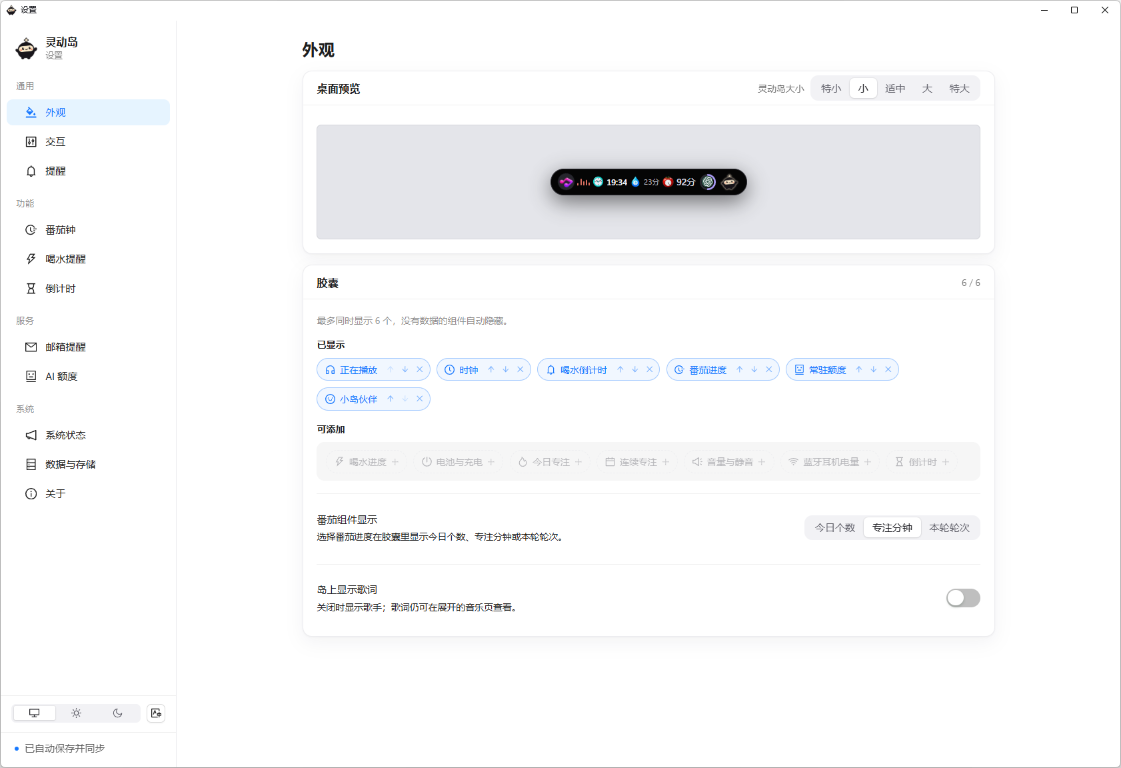
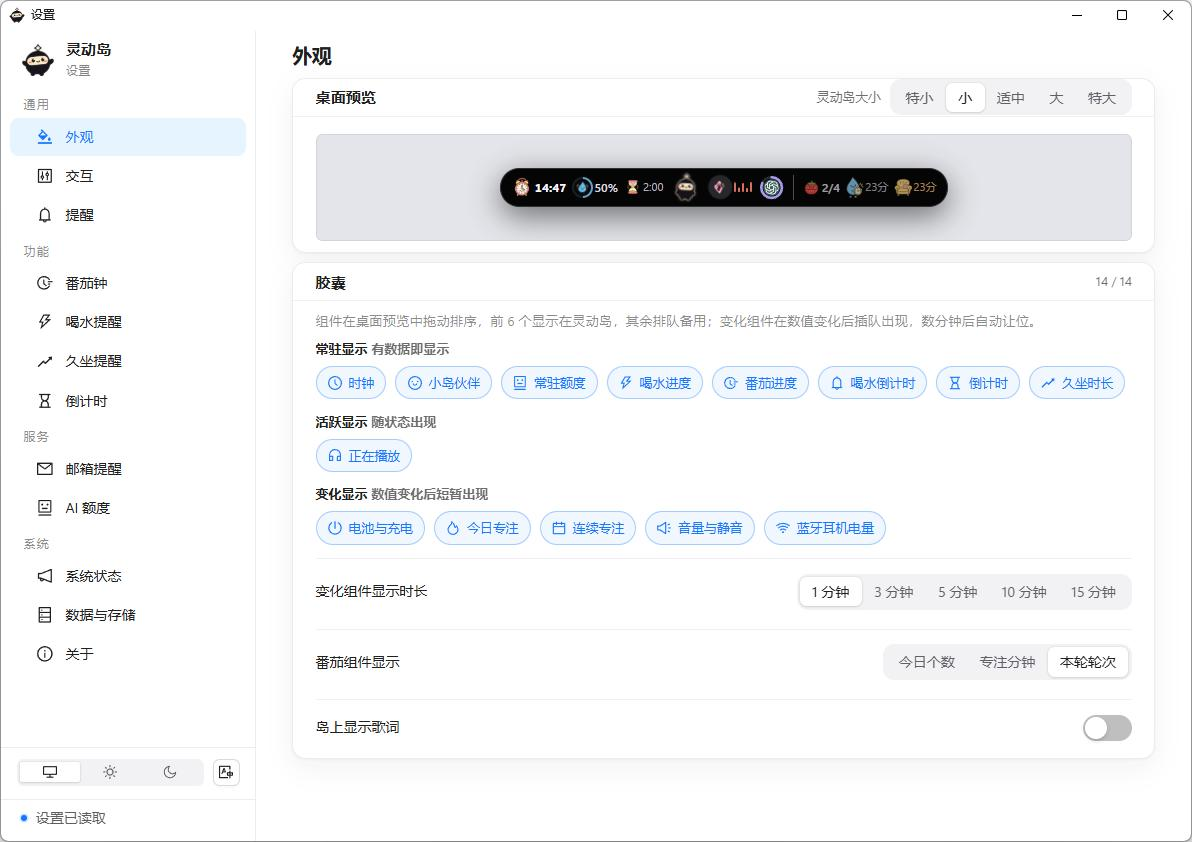
Update docs and screenshots, bump version to 0.1.14

diff --git a/README.md b/README.md
@@ -1,6 +1,6 @@
 # Dynamic Island for Windows
 
-把 macOS 灵动岛带到 Windows 桌面：番茄钟、喝水、久坐提醒、音乐与歌词、邮件验证码、AI 额度和音频设备切换，都收进屏幕顶部一枚始终置顶的胶囊里。
+把 macOS 灵动岛带到 Windows 桌面：番茄钟、喝水、久坐提醒、音乐与歌词、邮件验证码、微信消息提醒、AI 额度和音频设备切换，都收进屏幕顶部一枚始终置顶的胶囊里。
 
 _A dynamic island for Windows 10/11 — pomodoro, water, media & lyrics, mail codes, AI quota and audio device switching in one always-on-top capsule._
 
@@ -16,19 +16,19 @@ Tauri 2 · Rust · React 19 · TypeScript · WebView2 · [MIT License](LICENSE)
 
 **灵动岛**
 
-- 收起态按内容自适应宽度，悬停或点击展开；可设置鼠标离开后「立即 / 1 / 3 / 5 / 10 / 15 秒」收起。
-- 空闲时自定义显示哪些组件：时钟、喝水进度、番茄进度（今日个数 / 专注分钟 / 本轮轮次）、常驻额度环、正在播放、电池与充电、今日专注、连续专注、音量与静音、蓝牙耳机电量、喝水倒计时、倒计时、久坐时长；最多同时显示 6 个，可勾选并在预览里拖动排序。
-- 可在「设置 → 外观 → 胶囊」添加动态小岛伙伴，并调整它的显示顺序；系统开启减少动画时使用静态形象。
-- 展开后按页展示计时器、音乐、邮件、喝水、AI 额度、设备，可用两侧箭头、底部圆点或拖动面板标题切换；设备页可直接切换默认扬声器与麦克风。
+- 收起态按内容自适应宽度，悬停或点击展开；可设置鼠标离开后按预设档位收起，或自定义 0～60 秒（0.1 秒步进）。
+- 空闲时自定义显示哪些组件：时钟、喝水进度、番茄进度（今日个数 / 专注分钟 / 本轮轮次）、常驻额度环、正在播放、电池与充电、今日专注、连续专注、音量与静音、蓝牙耳机电量、喝水倒计时、倒计时、久坐时长。组件按「常驻 / 活跃 / 变化」三档管理，可全部启用并在预览里拖动排序；排在前 6 个的显示在岛上，其余排队备用，变化组件在数值变化后于胶囊末尾插队、数分钟后自动让位。
+- 可在「设置 → 外观 → 胶囊」添加动态小岛伙伴，并调整它的显示顺序；喝水、专注完成、倒计时到点等事件会触发伙伴的小动作。系统开启减少动画时使用静态形象。
+- 展开后按页展示计时器、音乐、邮件、喝水、久坐、AI 额度、设备、微信、通知，可用两侧箭头、底部圆点或拖动面板标题切换；设备页可直接切换默认扬声器与麦克风。
 - 常驻置顶、可拖动并记住位置；岛始终为深色，浅色 / 深色主题只作用于设置窗口。
 - 按屏幕逻辑宽度自动分级字号与面板尺寸，适配 2K / 4K 与 Windows 缩放。
 
 **设置窗口**
 
-- 外观：主题（跟随系统 / 浅色 / 深色）、语言（简体中文 / English）、桌面实时预览、闲时组件管理。
-- 交互：展开方式、自动收起、恢复默认位置、开机自启动、音乐页的「岛上歌词」开关、全局快捷键与应用通知转发。
+- 外观：主题（跟随系统 / 浅色 / 深色）、语言（简体中文 / English）、桌面实时预览（可拖动排序，前 6 个上岛、其余排队）、闲时组件三档管理、音乐页的「岛上歌词」开关。
+- 交互：展开方式、自动收起（预设档位或自定义 0～60 秒）、恢复默认位置、开机自启动、全局快捷键与应用通知转发。
 - 任务栏模式：将胶囊放在主显示器底部任务栏左侧，面板向上展开；在「设置 → 交互」中切换并可拖动调整位置。当前需要底部且未自动隐藏的主任务栏，属于覆盖窗口，不占用系统任务栏布局空间。
-- 提醒：提醒动效，以及验证码、喝水、久坐、计时结束时是否自动展开面板。
+- 提醒：提醒动效，验证码、喝水、久坐、计时结束的自动展开，微信消息的自动展开 / 内容显示 / 显示时长独立设置。
 - 番茄钟 / 喝水 / 久坐提醒：主视觉卡片、可配置参数与近 30 天统计图表。
 - 倒计时：目标时间或固定时长，可启用一条显示在空闲胶囊。
 - 系统状态：音量、亮度、电源、蓝牙提示，以及输出/输入音频设备切换。
@@ -50,6 +50,10 @@ Tauri 2 · Rust · React 19 · TypeScript · WebView2 · [MIT License](LICENSE)
   <tr>
     <td><img src="docs/screenshots/island-mail.png" alt="展开：邮件" width="348"><br><sub>展开：邮件提醒（暂无新邮件）</sub></td>
     <td><img src="docs/screenshots/island-device.png" alt="展开：设备" width="348"><br><sub>展开：输出与输入设备切换</sub></td>
+  </tr>
+  <tr>
+    <td><img src="docs/screenshots/island-sedentary.png" alt="展开：久坐" width="348"><br><sub>展开：久坐提醒与一键起身</sub></td>
+    <td><img src="docs/screenshots/island-wechat.png" alt="展开：微信" width="348"><br><sub>展开：微信消息（暂无新消息 · 一键唤起微信）</sub></td>
   </tr>
 </table>
 
@@ -132,6 +136,10 @@ npm run check   # prettier + eslint + vitest + tsc + vite build
 ### 喝水
 
 设置每日目标、每杯容量、提醒间隔与提醒时段。到达间隔且当天未达标时，灵动岛出现提醒与喝水动画；提醒只出现在岛上，不弹系统通知。展开喝水页可一键记录一杯或输入自定义毫升数，颜色随完成度从琥珀、天蓝过渡到绿色；设置页可查看近 30 天记录并单独重置今天。
+
+### 久坐
+
+设置久坐提醒间隔，灵动岛按「已坐 N 分钟」在空闲胶囊计时并在超过间隔时提醒；展开久坐页可一键记录起身，点「稍后」可暂缓 10 分钟，暂缓期内不重复提醒。设置页可查看近 30 天起身记录。
 
 ### 音乐与歌词
 

diff --git a/docs/architecture.md b/docs/architecture.md
@@ -2,7 +2,7 @@
 
 ## 目标与当前状态
 
-在 Windows 10/11 上提供苹果风格的桌面灵动岛：顶部常驻的透明小窗负责状态展示与快捷操作，独立设置窗口负责配置。当前已实现双窗口、托盘、六页灵动岛、媒体与歌词、系统状态与音频设备切换、邮件验证码、AI 额度、番茄钟/喝水/倒计时、本地存储与迁移。插件运行时尚未实现。
+在 Windows 10/11 上提供苹果风格的桌面灵动岛：顶部常驻的透明小窗负责状态展示与快捷操作，独立设置窗口负责配置。当前已实现双窗口、托盘、九页灵动岛（计时、音乐、邮件、喝水、久坐、AI 额度、设备、微信、通知）、媒体与歌词、系统状态与音频设备切换、邮件验证码、微信消息提醒、AI 额度、番茄钟/喝水/倒计时、本地存储与迁移。插件运行时尚未实现。
 
 ## 技术选型
 
@@ -14,7 +14,7 @@
 ## 分层与依赖方向
 
 1. `src/domain`：与 UI、运行时无关的领域类型与纯逻辑（番茄钟、喝水、倒计时、额度、显示优先级、设置校验与迁移）。
-2. `src/features`：按功能组织界面。`island` 渲染灵动岛（计时、音乐、邮件、喝水、AI 额度、设备六页），`settings` 管理设置交互，`mail`/`ai`/`water`/`stats` 提供数据 hooks。
+2. `src/features`：按功能组织界面。`island` 渲染灵动岛（计时、音乐、邮件、喝水、久坐、AI 额度、设备、微信、通知九页），`settings` 管理设置交互，`mail`/`ai`/`water`/`stats` 提供数据 hooks。
 3. `src/services`：Tauri 命令封装、设置/数据仓库、显示与主题适配、i18n。
 4. `src-tauri/src`：平台层。前端不直接调用 Windows API，只通过命令与事件交互。
 
@@ -64,7 +64,7 @@
 
 - SQLite 位于可配置的数据目录，默认使用应用数据目录；位置索引写在应用配置目录的 `data-location.json`。
 - 数据库 `PRAGMA user_version` 当前为 5：`settings`（键值 JSON）、`mail_accounts`、`ai_accounts`、`daily_stats`（喝水、番茄、久坐）。
-- 设置结构带版本（外观当前为 v19），读取时校验版本与字段；未知或未来版本报错而不是覆盖。
+- 设置结构带版本（外观当前为 v22），读取时校验版本与字段；未知或未来版本报错而不是覆盖。
 - 切换数据目录使用 SQLite 备份、完整性检查与原子更新索引；不覆盖目标目录已有文件，旧目录保留。
 - 数据库连接与迁移失败时不静默重建，避免覆盖用户数据。
 
@@ -97,7 +97,7 @@ Tauri 命令按模块注册，主要包括：
 
 - 窗口/托盘：`open_settings`、`show_settings_window`、`quit_app`、`set_island_expanded`、`set_island_panel_bounds`、`set_fullscreen_avoid`、`apply_island_scale`、`start_island_drag`、`check_taskbar_mode`、`set_taskbar_mode`、`reset_island_position`、`set_window_theme`、`get_system_theme`。
 - 自启动：`get_autostart`、`set_autostart`、`is_autostart_launch`。
-- 快捷键与通知：`hotkeys::apply_hotkeys`、`notifications::get_notification_access`、`notifications::set_notification_forwarding`、`notifications::open_notification_settings`、`wechat::set_wechat_notifications`。
+- 快捷键与通知：`hotkeys::apply_hotkeys`、`notifications::get_notification_access`、`notifications::set_notification_forwarding`、`notifications::open_notification_settings`、`wechat::set_wechat_notifications`、`wechat::open_wechat`。
 - 媒体：`get_media_state`、`get_media_artwork`、`control_media`、`seek_media`；歌词 `lyrics::get_lyrics`。
 - 系统与音频：`system_status::get_system_status`、`system_status::get_device_status`、`get_audio_devices`、`set_audio_device`。
 - 邮件：`mail::list_mail_accounts`、`add_mail_account`、`remove_mail_account`、`poll_mail`、`get_mail_monitor_status`、`copy_mail_code`。

diff --git a/CHANGELOG.md b/CHANGELOG.md
@@ -11,6 +11,10 @@
 - 提醒自动展开改为被动提示：面板可见但初始点击穿透、不抢占焦点，不打断当前鼠标操作；鼠标在面板上停留片刻即恢复可交互，提醒按钮可直接点击。
 - 任务栏模式：将胶囊放在主显示器底部任务栏左侧，面板向上展开；在「设置 → 交互」中切换并可拖动调整位置。当前需要底部且未自动隐藏的主任务栏，属于覆盖窗口，不占用系统任务栏布局空间。
 - 微信消息上岛：本地只读扫描 Windows 微信 4.x 会话列表的未读数量和摘要，首次启用以现有会话为基线，不补发历史消息。微信需要运行，且会话列表需能被 Windows UI Automation 读取；消息内容不落盘、不上传。
+- 微信提醒独立设置：微信消息的自动展开、是否显示内容、显示时长与系统通知分开配置；隐藏内容的微信消息只在胶囊上点亮角标提醒、不弹出内容。新增「微信」页集中查看消息，并可一键唤起微信窗口（自动校验窗口属于微信进程）。
+- 自动收起自定义：「鼠标离开后自动收起」在预设档位外支持输入 0–60 秒（0.1 秒步进）。
+- 小岛伙伴反应：喝水、专注完成、倒计时到点等事件会触发伙伴的小动作。
+- 提醒暂缓：久坐提醒可点「稍后」暂缓 10 分钟，暂缓期内不重复提醒。
 
 ### 修复
 

diff --git a/docs/development.md b/docs/development.md
@@ -58,8 +58,11 @@ GitHub Actions 在 `windows-latest` 上运行同一组检查（见 `.github/work
 
 - 窗口、字体、透明区域、点击穿透、DPI 缩放与展开/收起动画。
 - 浅色/深色设置页、1080p 与 2K 逻辑分辨率、最小胶囊尺寸与展开布局。
+- 闲时组件三档分组与预览排队：排前 6 个上岛、其余变暗，变化组件于胶囊末尾插队并在设定时长后让位。
 - 媒体播放、控制、进度、歌词与切歌竞态；真实播放器的限制要如实显示。
 - 邮件账户检查、验证码识别与凭据读取；不要用真实邮箱内容做公开截图或日志。
+- 微信消息上岛与独立设置：角标动画、微信页展示、「打开微信」的窗口切换；不要用真实联系人或消息内容做公开截图或日志。
+- 自动收起自定义输入（0～60 秒、0.1 秒步进）与久坐提醒的「稍后」暂缓。
 - 音频设备枚举与默认设备切换：测试后恢复原来的默认设备。
 - AI 额度只展示服务实际返回值；失败与无额度不能显示为满额。
 
